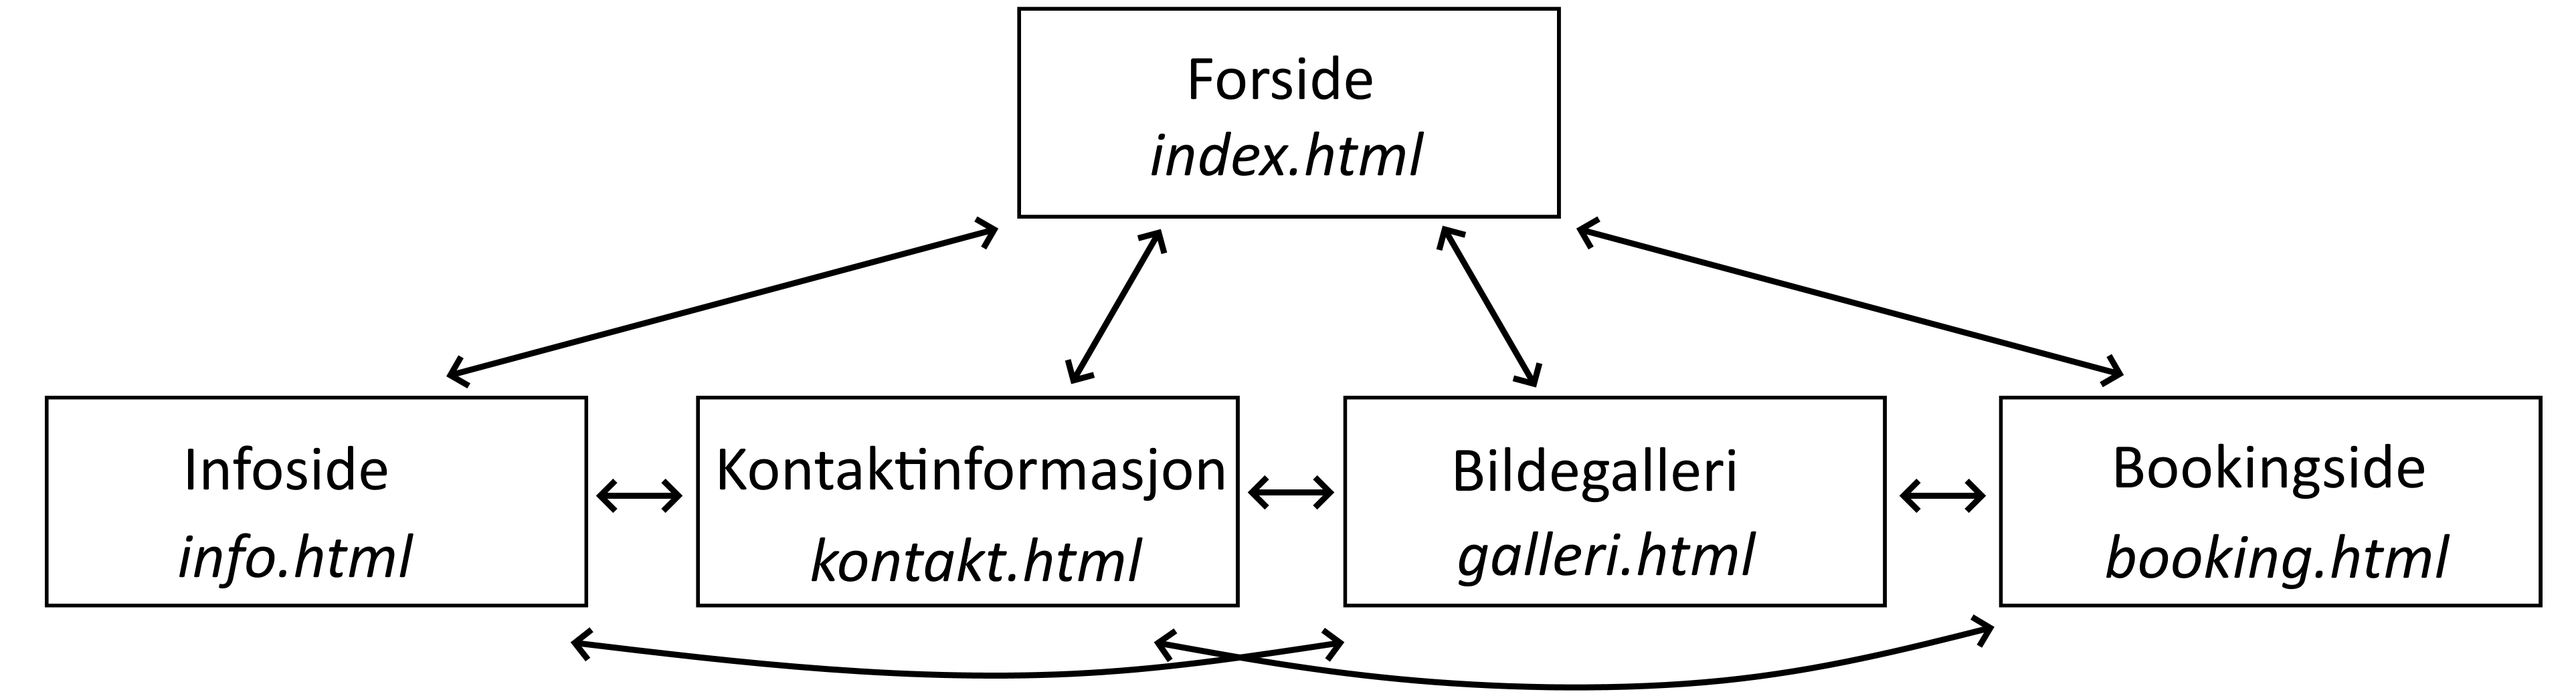
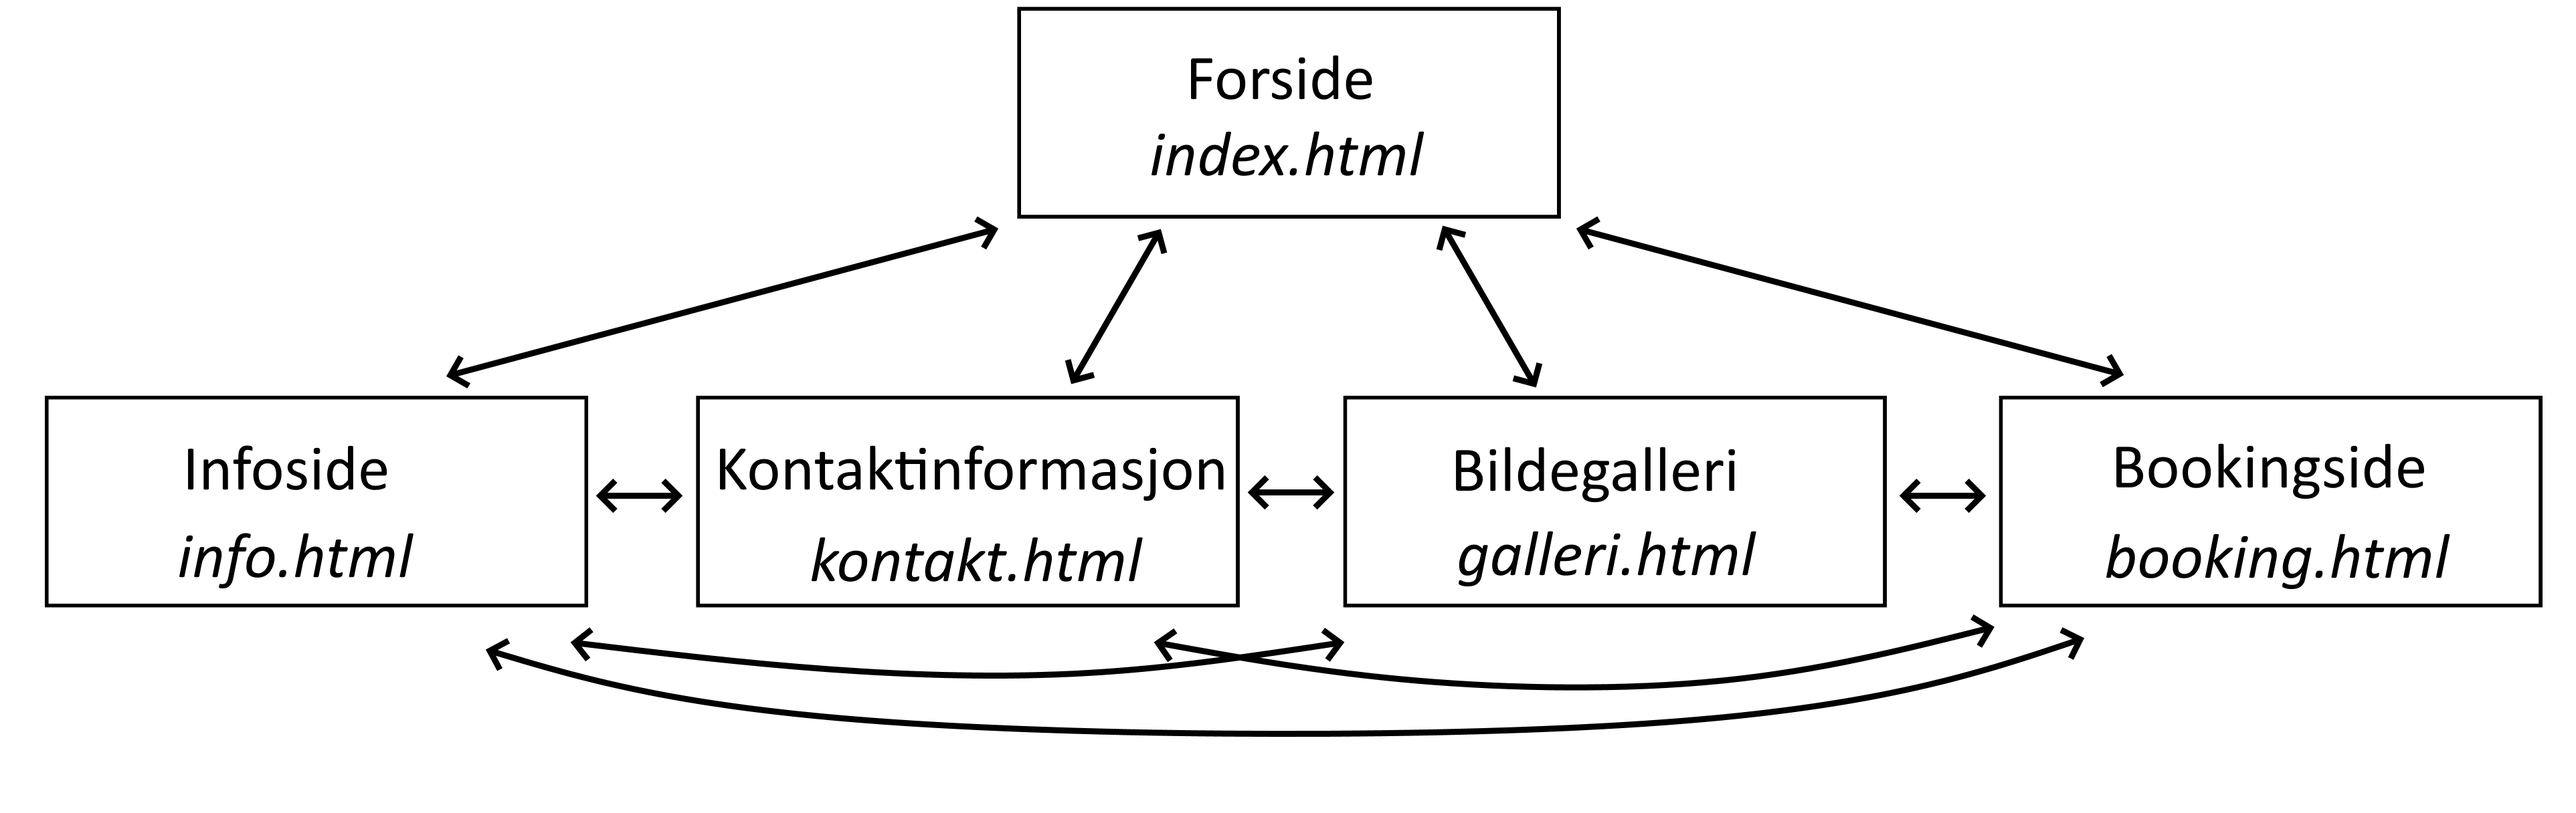
regiderte navigasjonskart.png, la til kontakt-mockup.png, mer tekst under navigasjonstruktur

diff --git a/P2_design_48.html b/P2_design_48.html
@@ -47,7 +47,11 @@
                     de andre sidene gjennom navigasjonsbaren på toppen av alle de fem sidene.
                 </p>
                 <p>
-                    Figuren nedenfor viser denne strukturen i en hierarkiform. Brukeren er ment å 
+                    Figuren nedenfor viser denne strukturen i en hierarkiform. Brukeren er ment å starte på forsiden og jobbe seg videre til den 
+                    informasjonen eller funksjonen de selv ønsker å utnytte. Fordi brukerne mest sannsynlig kommer til å gjøre én ting om gangen 
+                    er hver del av nettsiden lett tilgjengelig med en gang via navigasjonsbaren. I spesialtilfeller der brukeren trenger å navigere 
+                    mellom de forkjellige sidene (f.eks. om de skal booke bakgården, men har glemt reglene for hva som er lov å gjøre der) er den 
+                    muligheten lett tilgjengelig ettersom navigasjonsbaren er global og tilgjengelig overalt på nettstedet.
                 </p>
                 <img src="img/navigasjonskart.png" />
 
@@ -98,6 +102,7 @@
                         viktige personer som er involvert i borettslaget. Dette innebærer blant annet styrelederen og hele styret for borettslaget, vaktmestertjenester 
                         og andre personer som har fått tildelt en rolle eller et ansvar. Dette er med på å oppfylle målet om å forenkle kontaktprosessen.
                     </p>
+                    <img src="img/kontakt-mockup.png" />
                 
                     <p>
                         Kontaktsiden vil også inneholde en funksjon som gjør det mulig for beboere å ta kontakt med ledelsen ved hjelp av en meldingsfunksjon. 
@@ -116,11 +121,11 @@
                     <h3>Booking (booking.html)</h3>
                     <p>
                         Et av målene med denne nettsiden er å gjøre det enklere for beboerne å benytte seg av de ulike fellesarealene i bygget. Derfor vil vi implementere 
-                        to ulike bookingsystemer; et for vaskeriet og et for bakgården. På denne måten kan beboerne enklere får oversikt over når de ulike fasilitetene er 
+                        to ulike bookingsystemer; et for vaskeriet og et for bakgården. På denne måten kan beboerne enklere få oversikt over når de ulike fasilitetene er 
                         opptatt eller tilgjengelig for bruk.
                     </p>
                     <p>
-                        Hver av bookingfunksjonene består av ulike rubrikker hvor brukerne må skrive inn navnet sitt, leilighetsnummeret og velge et tidspunkt å booke. Her 
+                        Hver av bookingfunksjonene består av ulike rubrikker med tidspunkter brukerne kan klikke på og må skrive inn navnet sitt og leilighetsnummeret for å booke. Her 
                         vil ledige tider markeres i grønt, og utilgjengelige tider vil være markert i rødt.
                     </p>
                     <img src="img/booking-mockup.png" />
